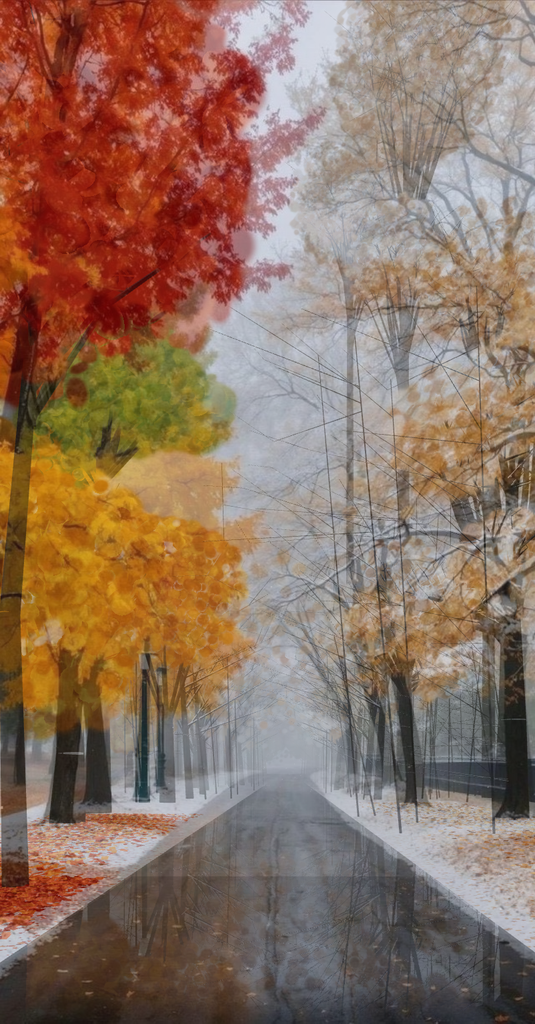
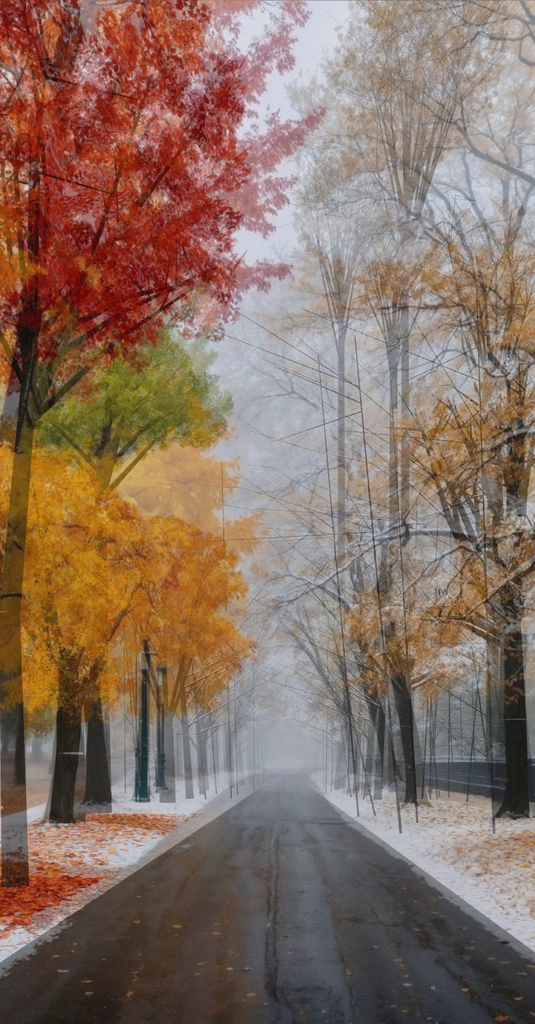
Dull wet-asphalt reflection and restore leaf-card canopies
Blur and darken the planar reflection (low-res RT + wide kernel, capped
mix) so the road reads as wet asphalt instead of a mirror. Restore denser
soft-alpha leaf-shaped card clumps in place of painter soft-puffs.

diff --git a/src/road.ts b/src/road.ts
@@ -22,7 +22,7 @@ export function wetRoadWithReflection(env: THREE.Texture | null, backend: "webgp
   const cx = (left + right) / 2, cz = 4 - FAR / 2;
 
   const useReflect = backend === "webgl" && !params.mask;
-  const rtSize = Math.min(1024, Math.floor(640 * params.pixelRatio));
+  const rtSize = Math.min(160, Math.floor(120 * params.pixelRatio)); // very low-res blur
   const rt = useReflect
     ? new THREE.WebGLRenderTarget(rtSize, Math.floor(rtSize * 2), {
         type: THREE.HalfFloatType,
@@ -37,19 +37,20 @@ export function wetRoadWithReflection(env: THREE.Texture | null, backend: "webgp
     map,
     roughnessMap: rough,
     envMap: env ?? undefined,
-    color: "#18191b",
-    roughness: 0.48,
-    metalness: 0.02,
-    clearcoat: 0.65,
-    clearcoatRoughness: 0.12,
-    envMapIntensity: useReflect ? 0.25 : 0.7,
+    color: "#3a3c40",
+    roughness: 0.68,
+    metalness: 0,
+    clearcoat: 0.22,
+    clearcoatRoughness: 0.45,
+    envMapIntensity: useReflect ? 0.35 : 0.55,
   });
 
   if (rt) {
     mat.onBeforeCompile = (shader) => {
       shader.uniforms.tPlanarReflect = { value: rt.texture };
       shader.uniforms.uReflectMatrix = { value: reflectorMatrix };
-      shader.uniforms.uReflectMix = { value: 0.68 };
+      shader.uniforms.uReflectMix = { value: 0.14 };
+      shader.uniforms.uReflectBlur = { value: 1.0 / rtSize };
       shader.vertexShader = shader.vertexShader
         .replace(
           "#include <common>",
@@ -70,6 +71,7 @@ vPlanarWorldPos = (modelMatrix * vec4( transformed, 1.0 )).xyz;
 uniform sampler2D tPlanarReflect;
 uniform mat4 uReflectMatrix;
 uniform float uReflectMix;
+uniform float uReflectBlur;
 varying vec3 vPlanarWorldPos;
 `,
         )
@@ -79,18 +81,30 @@ varying vec3 vPlanarWorldPos;
 {
   vec4 rUv = uReflectMatrix * vec4( vPlanarWorldPos, 1.0 );
   vec2 rq = rUv.xy / max( rUv.w, 1e-4 );
-  float edge = smoothstep( 0.0, 0.08, rq.x ) * smoothstep( 1.0, 0.92, rq.x )
-             * smoothstep( 0.0, 0.06, rq.y ) * smoothstep( 1.0, 0.94, rq.y );
-  vec3 refl = texture2D( tPlanarReflect, clamp( rq, 0.0, 1.0 ) ).rgb;
-  float nearWet = smoothstep( -50.0, -1.5, vPlanarWorldPos.z );
-  float roughF = 1.0 - roughnessFactor;
-  float mixAmt = uReflectMix * roughF * edge * ( 0.4 + 0.6 * nearWet );
-  diffuseColor.rgb = mix( diffuseColor.rgb, refl, clamp( mixAmt, 0.0, 0.82 ) );
+  float edge = smoothstep( 0.0, 0.1, rq.x ) * smoothstep( 1.0, 0.9, rq.x )
+             * smoothstep( 0.0, 0.08, rq.y ) * smoothstep( 1.0, 0.92, rq.y );
+  // wide multi-tap blur: wet asphalt streak, not chrome
+  vec2 px = vec2( uReflectBlur * 5.0, uReflectBlur * 3.0 );
+  vec3 refl = vec3( 0.0 );
+  float wsum = 0.0;
+  for ( int iy = -2; iy <= 2; iy++ ) {
+    for ( int ix = -2; ix <= 2; ix++ ) {
+      float w = 1.0 / ( 1.0 + float( ix * ix + iy * iy ) );
+      refl += texture2D( tPlanarReflect, clamp( rq + px * vec2( float( ix ), float( iy ) ), 0.0, 1.0 ) ).rgb * w;
+      wsum += w;
+    }
+  }
+  refl /= wsum;
+  refl *= 0.58; // dull
+  float nearWet = smoothstep( -40.0, -2.0, vPlanarWorldPos.z );
+  float roughF = pow( 1.0 - roughnessFactor, 1.5 );
+  float mixAmt = uReflectMix * roughF * edge * ( 0.35 + 0.45 * nearWet );
+  diffuseColor.rgb = mix( diffuseColor.rgb, refl, clamp( mixAmt, 0.0, 0.18 ) );
 }
 `,
         );
     };
-    mat.customProgramCacheKey = () => "wet-planar-reflect-v2";
+    mat.customProgramCacheKey = () => "wet-planar-reflect-v7";
   }
 
   const mesh = new THREE.Mesh(geo, mat);
@@ -103,7 +117,7 @@ varying vec3 vPlanarWorldPos;
   // darker near band (photo: near asphalt is darker)
   const nearPad = new THREE.Mesh(
     new THREE.PlaneGeometry(w * 0.98, 16).rotateX(-Math.PI / 2),
-    new THREE.MeshBasicMaterial({ color: "#0c0d0f", transparent: true, opacity: 0.28, depthWrite: false }),
+    new THREE.MeshBasicMaterial({ color: "#0c0d0f", transparent: true, opacity: 0.06, depthWrite: false }),
   );
   nearPad.position.set(cx, 0.004, -1.5);
   nearPad.renderOrder = 2;

diff --git a/src/tree.ts b/src/tree.ts
@@ -70,62 +70,47 @@ export function buildTree(spec: TreeSpec, seed: number): BuiltTree {
         }
       }
     }
-    const count = Math.round(b.r * b.r * 85 * params.density * (spec.leafiness ?? 1) / spec.leafSize);
+    const count = Math.round(b.r * b.r * 70 * params.density * (spec.leafiness ?? 1) / spec.leafSize);
     for (let i = 0; i < count; i++) {
       const d = new THREE.Vector3().randomDirection().multiplyScalar(Math.pow(rand(), 0.35));
       d.y *= 0.85;
       const pos = b.c.clone().addScaledVector(d, b.r);
       const col = new THREE.Color(spec.palette[Math.floor(rand() * spec.palette.length)]);
       const shade = 0.82 + 0.25 * (d.y * 0.5 + 0.5);
-      col.multiplyScalar(shade * 0.92);
+      col.multiplyScalar(shade);
       if (rand() < spec.snow * (d.y > 0 ? 1.3 : 0.4)) col.lerp(snowWhite, 0.55 + rand() * 0.3);
-      leaves.push({ pos, size: spec.leafSize * (0.7 + rand() * 0.55) * (1 + depth / 50), color: col, rot: rand() * 6.28 });
+      leaves.push({ pos, size: spec.leafSize * 0.75 * (0.75 + rand() * 0.5) * (1 + depth / 40), color: col, rot: rand() * 6.28 });
     }
   }
   return { wood, leaves };
 }
 
-/** Soft volumetric canopy shells: large soft puffs (no depth write) + denser mid shells. */
+/** Dense leaf-card clumps with soft alpha (54a4dd9 look, slightly softer edges). */
 export function leafMesh(all: BuiltTree["leaves"], seed: number) {
   const geo = new THREE.PlaneGeometry(1, 1);
-  const softMap = leafClump(seed, true);
-  const midMap = leafClump(seed + 3, false);
-  const softMat = new THREE.MeshBasicMaterial({
-    map: softMap, transparent: true, opacity: 0.92, depthWrite: false,
-    alphaTest: 0.02, side: THREE.DoubleSide, blending: THREE.NormalBlending,
-  });
-  const midMat = new THREE.MeshBasicMaterial({
-    map: midMap, transparent: true, depthWrite: true, alphaTest: 0.08, side: THREE.DoubleSide,
-  });
+  const mats = [true, false].map((maple, i) =>
+    new THREE.MeshBasicMaterial({
+      map: leafClump(seed + i, maple),
+      alphaTest: 0.18,
+      transparent: true,
+      depthWrite: true,
+      side: THREE.DoubleSide,
+    }));
   const group = new THREE.Group();
   const m = new THREE.Matrix4(), q = new THREE.Quaternion(), e = new THREE.Euler(), s = new THREE.Vector3();
-  // Layer A: every leaf as soft large shell
-  {
-    const mesh = new THREE.InstancedMesh(geo, softMat, all.length);
-    mesh.renderOrder = 1;
-    all.forEach((l, i) => {
+  mats.forEach((mat, mi) => {
+    const mine = all.filter((_, i) => i % 2 === mi);
+    if (!mine.length) return;
+    const mesh = new THREE.InstancedMesh(geo, mat, mine.length);
+    mine.forEach((l, i) => {
       const toCam = Math.atan2(shot.eye.x - l.pos.x, shot.eye.z - l.pos.z);
-      e.set((l.rot - 3.14) * 0.12, toCam + (l.rot - 3.14) * 0.15, l.rot * 0.4);
-      m.compose(l.pos, q.setFromEuler(e), s.setScalar(l.size * 1.15));
+      e.set((l.rot - 3.14) * 0.25, toCam + (l.rot - 3.14) * 0.3, l.rot);
+      m.compose(l.pos, q.setFromEuler(e), s.setScalar(l.size));
       mesh.setMatrixAt(i, m);
       mesh.setColorAt(i, l.color);
     });
     group.add(mesh);
-  }
-  // Layer B: half as denser mid shells for volume
-  {
-    const mine = all.filter((_, i) => i % 2 === 0);
-    const mesh = new THREE.InstancedMesh(geo, midMat, mine.length);
-    mesh.renderOrder = 2;
-    mine.forEach((l, i) => {
-      const toCam = Math.atan2(shot.eye.x - l.pos.x, shot.eye.z - l.pos.z);
-      e.set((l.rot - 3.14) * 0.2, toCam + (l.rot - 3.14) * 0.2, l.rot);
-      m.compose(l.pos, q.setFromEuler(e), s.setScalar(l.size * 0.75));
-      mesh.setMatrixAt(i, m);
-      mesh.setColorAt(i, l.color.clone().multiplyScalar(0.92));
-    });
-    group.add(mesh);
-  }
+  });
   return group;
 }
 

diff --git a/src/textures.ts b/src/textures.ts
@@ -18,43 +18,30 @@ function leafPath(g: CanvasRenderingContext2D, maple: boolean) {
   g.fill();
 }
 
-/**
- * Soft volumetric canopy puff: overlapping soft discs + faint leaf grain.
- * No hard silhouette — alpha feathers to 0 at the rim.
- */
-export function leafClump(seed: number, _maple: boolean) {
+/** Soft-edged leaf clump — leaf-shaped cards with feathered alpha (54a4dd9 look). */
+export function leafClump(seed: number, maple: boolean) {
   const S = 256, [c, g] = canvas(S, S), r = rng(seed);
   g.clearRect(0, 0, S, S);
-  // large soft body
-  for (let i = 0; i < 18; i++) {
-    const cx = S * (0.35 + r() * 0.3), cy = S * (0.35 + r() * 0.3);
-    const rad = S * (0.22 + r() * 0.22);
-    const gr = g.createRadialGradient(cx, cy, 0, cx, cy, rad);
-    const a0 = 0.35 + r() * 0.35;
-    gr.addColorStop(0, `rgba(255,255,255,${a0})`);
-    gr.addColorStop(0.45, `rgba(255,255,255,${a0 * 0.55})`);
-    gr.addColorStop(1, "rgba(255,255,255,0)");
-    g.fillStyle = gr;
-    g.beginPath(); g.arc(cx, cy, rad, 0, Math.PI * 2); g.fill();
+  for (let i = 0; i < 120; i++) {
+    const a = r() * Math.PI * 2, d = Math.sqrt(r()) * S * 0.4;
+    g.save();
+    g.translate(S / 2 + Math.cos(a) * d, S / 2 + Math.sin(a) * d);
+    g.rotate(r() * Math.PI * 2);
+    const s = S * (0.035 + r() * 0.035);
+    g.scale(s, s);
+    const v = 200 + r() * 55;
+    g.globalAlpha = 0.55 + r() * 0.4;
+    g.fillStyle = `rgb(${v},${v * (0.92 + r() * 0.08)},${v * (0.85 + r() * 0.1)})`;
+    leafPath(g, maple);
+    g.restore();
   }
-  // finer soft speckles for leaf grain (still soft)
-  for (let i = 0; i < 80; i++) {
-    const cx = S * (0.2 + r() * 0.6), cy = S * (0.2 + r() * 0.6);
-    const rad = S * (0.03 + r() * 0.07);
-    const gr = g.createRadialGradient(cx, cy, 0, cx, cy, rad);
-    const a0 = 0.15 + r() * 0.25;
-    gr.addColorStop(0, `rgba(255,255,255,${a0})`);
-    gr.addColorStop(1, "rgba(255,255,255,0)");
-    g.fillStyle = gr;
-    g.beginPath(); g.arc(cx, cy, rad, 0, Math.PI * 2); g.fill();
-  }
-  // global radial mask so the card edge is invisible
+  // feather outer alpha so card edges don't read as paper cutouts
   const img = g.getImageData(0, 0, S, S), d = img.data, cx = S / 2, cy = S / 2, maxR = S * 0.48;
   for (let y = 0; y < S; y++) for (let x = 0; x < S; x++) {
     const i = (y * S + x) * 4;
+    if (d[i + 3] === 0) continue;
     const rr = Math.hypot(x - cx, y - cy) / maxR;
-    const fall = rr >= 1 ? 0 : rr > 0.55 ? 1 - (rr - 0.55) / 0.45 : 1;
-    d[i + 3] = Math.round(d[i + 3] * fall * fall);
+    if (rr > 0.65) d[i + 3] = Math.round(d[i + 3] * Math.max(0, 1 - (rr - 0.65) / 0.35));
   }
   g.putImageData(img, 0, 0);
   const t = new THREE.CanvasTexture(c);

diff --git a/README.md b/README.md
@@ -48,12 +48,12 @@ bun install && bun run dev
 
 ## 和照片的差距（诚实说明）
 
-这是程序化实时场景，**不是照片级复刻**。当前网格色差约 **22.1/255**，路面 IoU 约 **0.95**。
+这是程序化实时场景，**不是照片级复刻**。当前网格色差约 **21.9/255**，路面 IoU 约 **0.95**。
 
 仍然明显的差距：
 
-1. **叶片**：已改成软边体积壳（双层 billboard），不再是硬剪纸；仍偏「颜料点」而不是照片级叶脉细节。
-2. **路面倒影**：自定义镜像相机平面反射（兼容镜头平移），近处更湿更暗；雾会洗淡倒影里的树冠色，暖色倒影仍偏弱。
+1. **叶片**：软边叶形卡片簇（非大颜料团）；仍不及照片的绒密体积。
+2. **路面倒影**：低分辨率 + 宽核模糊的平面反射，刻意压暗，读作湿沥青而非镜面；暖色倒影仍弱。
 3. **中景雾带**：已加灰枝网，仍比照片亮、疏。
 4. **远树**：仍偏细杆。
 
